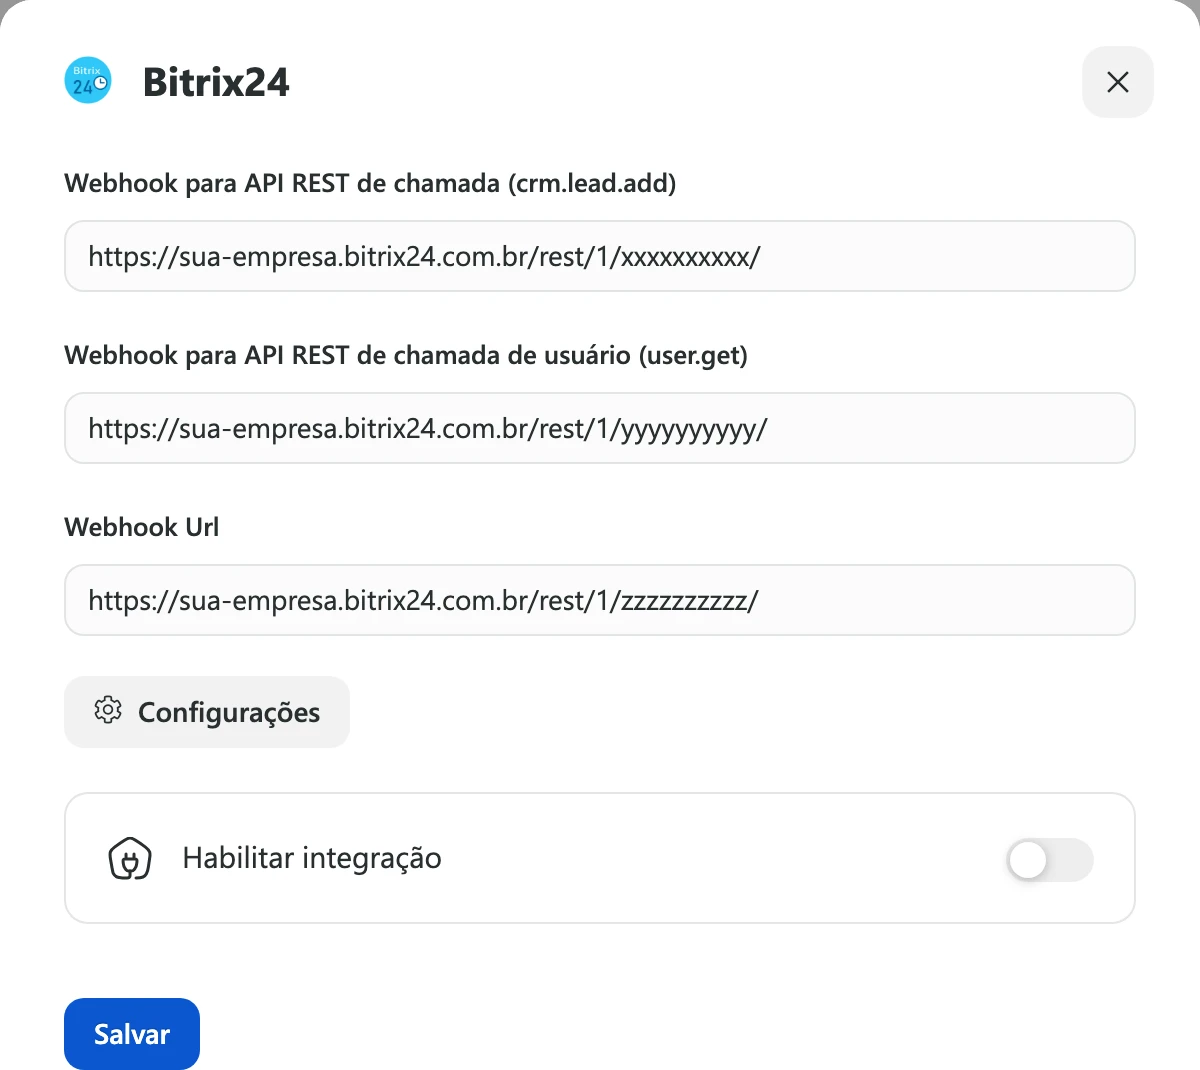
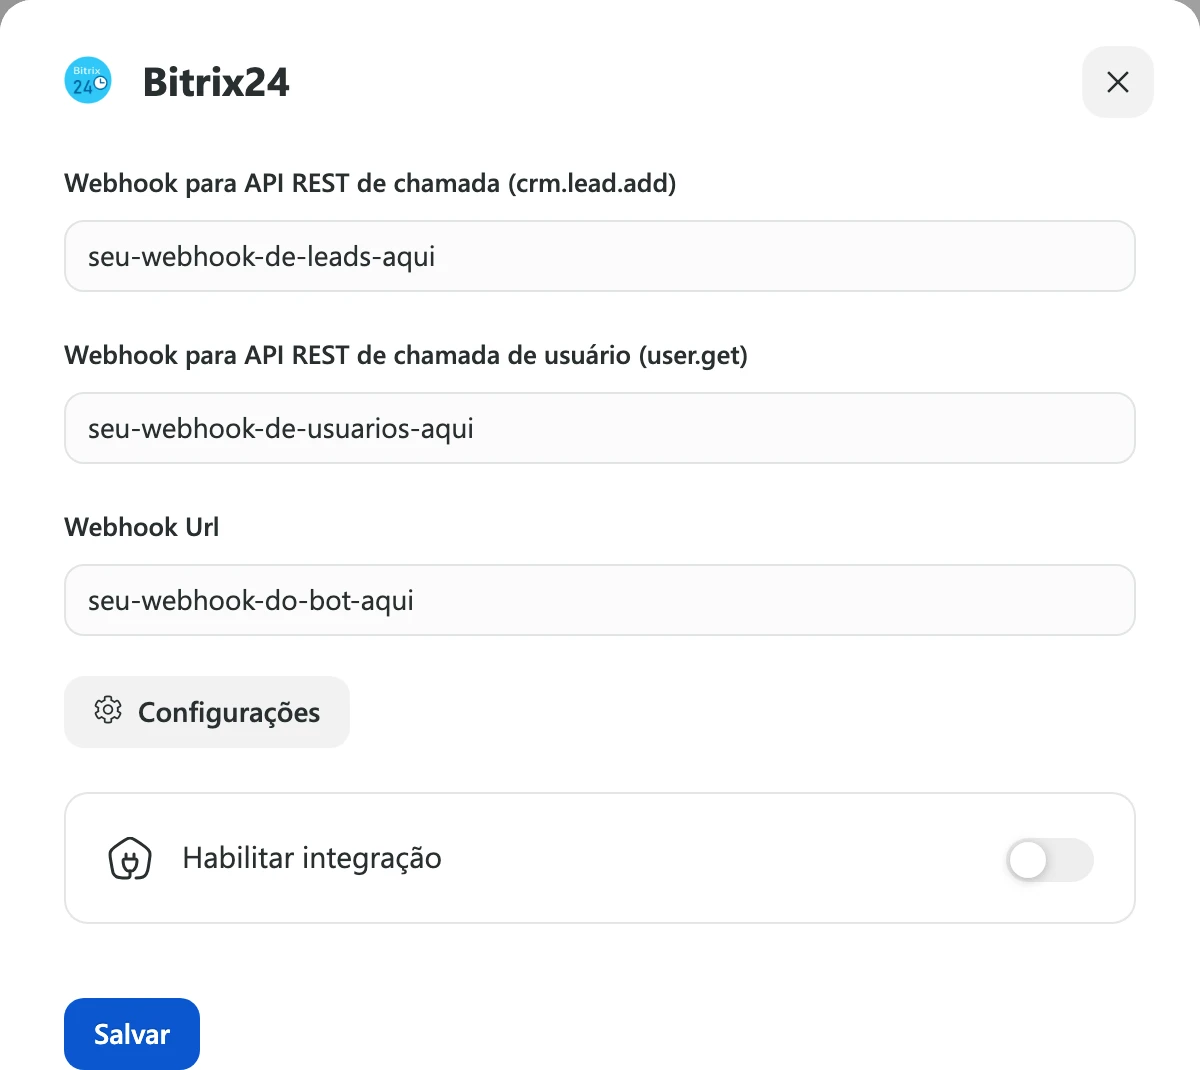
docs(integracoes): ajustes finais da rodada 2 do conselho
Print do Bitrix24 com marcadores no lugar de endereços; frontmatter sem
os arquivos citados pelo conselho; RD Station Marketing com o painel
fechando ao salvar antes de conectar; HubSpot com as condições de
modo, itens de linha e tokens conferidas; Pipedrive, Bitrix24, RD
Station CRM, Zoho, NectarCRM e bloco do bot ajustados; golden com o
webhook do RD.

Origem: web:src/components-old/forms/FormModal/index.tsx,
web:src/components-old/chat/side/integrationApps/HubspotApp/**,
api-v0:server/services/** (HubSpotGeneralService, PipedriveService)

Changed region(s): [[0.0617, 0.3701, 0.6475, 0.4318], [0.0617, 0.5551, 0.6475, 0.586], [0.0617, 0.2159, 0.6475, 0.2467]]

diff --git a/llm/integracoes/hubspot.md b/llm/integracoes/hubspot.md
@@ -63,14 +63,14 @@ Complemento técnico de [Integrar com o HubSpot](/docs/integracoes/hubspot).
 - **Tokens reservas:**
   - **No bot, nas automações e nas ações de fluxo de trabalho:** quando há tokens cadastrados em **Tokens reservas**, cada chamada sorteia **apenas entre os tokens reservas** e deixa de usar o **Token** principal.
   - **No quadro da conversa:** usa sempre o **Token** principal (os tokens reservas não são usados no quadro).
-  - **Um token por campo:** coloque um único token em **Token** e em cada linha de **Tokens reservas**. Vários tokens separados por vírgula no campo **Token** só funcionam no quadro; no bot, nas automações e nos fluxos de trabalho o campo é usado inteiro e as chamadas falham.
+  - **Um token por campo:** coloque um único token em **Token** e em cada linha de **Tokens reservas**. Vários tokens separados por vírgula no campo **Token** só funcionam no quadro. Sem **Tokens reservas**, o bot, as automações e os fluxos de trabalho usam o campo inteiro e as chamadas falham; com **Tokens reservas**, eles sorteiam entre as reservas.
 - **Cache de propriedades nos ajustes:** a lista de campos do HubSpot carregada em **Ajustes do Hubspot** fica em cache até recarregar a página do navegador. Propriedades recém-criadas no HubSpot só aparecem após recarregar o navegador.
 
 ## Ações no bot
 
 Disponíveis no bloco **Integração**, grupo **Outros** (veja [Chamar um sistema externo no bot](/docs/bot/integracoes-do-bot); puladas na simulação):
 
-- **Consulta contato no HubSpot:** tem a opção **Não sobrescrever nome do contato no Hubspot**. Procura pelo ID já guardado ou por e-mail/telefone (até 3 tentativas). Se não existir, cria com status de lead `"NEW"`, nome dividido em nome e sobrenome e, como responsável, o usuário do HubSpot com o mesmo e-mail do membro atribuído; se existir, atualiza. Envia os campos do **Mapa de campos**, envia telefones brasileiros com `+55` (celulares com o nono dígito; telefones fixos sem ele) e grava mensagem de sistema na conversa (`"Contato criado no Hubspot"`, `"Contato atualizado no Hubspot"` ou `"Erro ao criar contato no Hubspot -> …"`). Sem e-mail e sem telefone, não faz nada.
+- **Consulta contato no HubSpot:** tem a opção **Não sobrescrever nome do contato no Hubspot**. Procura pelo ID já guardado ou por e-mail/telefone (até 3 tentativas). Se não existir, cria com status de lead `"NEW"`, nome dividido em nome e sobrenome e, como responsável, o usuário do HubSpot com o mesmo e-mail do membro atribuído; se existir, atualiza. Envia os campos do **Mapa de campos**, por padrão, envia telefones brasileiros com `+55` (celulares com o nono dígito; telefones fixos sem ele) e grava mensagem de sistema na conversa (`"Contato criado no Hubspot"`, `"Contato atualizado no Hubspot"` ou `"Erro ao criar contato no Hubspot -> …"`). Sem e-mail e sem telefone, não faz nada.
 - **Consulta negócio no HubSpot:** pede **Funil de vendas** e **Etapa do funil**. Consulta negócios abertos do contato; se não encontrar, cria um novo negócio na etapa escolhida; se encontrar, não faz nada.
 - **Atualiza negócio no HubSpot:** pede **Funil de vendas** e **Etapa do funil** para atualizar o negócio.
 - **Cria ou atualiza Objeto no HubSpot:** pede **Objeto**, **Campo customizado do ID do objeto** e **Mapa de campos** (oferece **Nome**, **E-mail**, **Data criação da sessão**, **Data fim da sessão**, **Atendente da sessão** e campos personalizados).
@@ -87,12 +87,12 @@ Na ação **Integração** das automações:
 
 - **Negócios exibidos:** o quadro mostra todos os negócios associados ao contato (abertos e fechados).
 - **Erros da API do HubSpot:** aparecem como aviso com prefixo `"Hubspot"` seguido da mensagem original do HubSpot em inglês.
-- **Contato já existente ao criar:** se o contato já existir no HubSpot (por exemplo, mesmo e-mail), o HubSpot recusa a criação, o aviso aparece e o quadro não vincula o contato automaticamente. Use **Trocar contato vinculado** (no modo **Celular**) para ligar ao contato existente.
-- **Itens de linha ao editar negócio:** nos itens já salvos, **Preço** e **Quantidade** ficam desativados. Para trocar um item, exclua-o e adicione outro: excluir pede "Tem certeza que deseja excluir esse item de linha? Não poderá desfazer.", vale na hora e avisa "Item de linha excluído.".
+- **Contato já existente ao criar:** se o contato já existir no HubSpot (por exemplo, mesmo e-mail), o HubSpot recusa a criação. No modo **Celular**, o quadro não vincula o contato automaticamente: use **Trocar contato vinculado** para ligar ao contato existente. No modo **Id do contato do Hubspot**, o quadro grava o ID do contato já existente no **Campo de sincronização**.
+- **Itens de linha ao editar negócio:** nos itens já salvos, **Produto**, **Preço** e **Quantidade** ficam desativados. Para trocar um item, exclua-o e adicione outro: excluir pede "Tem certeza que deseja excluir esse item de linha? Não poderá desfazer.", vale na hora e avisa "Item de linha excluído.".
 - **Limites de listagem:** funis e produtos listam até 99 itens; propriedades de objeto no bot listam até 999 itens; a lista de **Responsável** traz todos os usuários do HubSpot.
 - **Ver no Hubspot:** só abre o negócio certo ao editar um negócio já salvo; na criação, o link ainda não aponta para um negócio.
 - **Cartão do negócio:** ao passar o mouse sobre um negócio da lista, aparece o cartão **Negócio** com **Status** (**Ganho**, **Perdido** ou **Aberto**), **Responsável**, **Valor**, **Funil**, **Etapa** e **Criado há**.
-- **Criar Contato desativado:** o botão fica desativado com a dica "Contato não possui número de telefone" quando o contato não tem telefone. A janela **Adicionar Contato** envia junto o telefone e o e-mail do contato.
+- **Criar Contato desativado:** nos modos **Celular** e **Campo personalizado**, o botão fica desativado com a dica "Contato não possui número de telefone" quando o contato não tem telefone. No modo **Id do contato do Hubspot**, o botão fica liberado mesmo sem telefone. A janela **Adicionar Contato** envia junto o telefone e o e-mail do contato.
 - **Trocar contato vinculado:** busca contatos do HubSpot por nome, e-mail ou telefone (até 20 resultados), marca o atual como **Vinculado** e grava a escolha com **Vincular** no contato da Kinbox. Só aparece no modo **Celular**.
 - **Responsável sugerido:** ao criar um negócio, **Responsável** vem preenchido com o usuário do HubSpot que tem o mesmo e-mail do membro logado. O quadro recarrega cerca de 5 segundos depois de salvar.
 - **Obrigatoriedade:** as regras configuradas em **Obrigatoriedade** valem apenas no formulário de negócio do quadro da conversa (não no HubSpot nem no bot).

diff --git a/llm/integracoes/rdstation-marketing.md b/llm/integracoes/rdstation-marketing.md
@@ -35,8 +35,7 @@ Complemento técnico de [Integrar com o RD Station Marketing](/docs/integracoes/
 
 - **E-mail como chave:** o quadro busca o contato no RD exclusivamente pelo e-mail do contato na Kinbox. Alterar o e-mail do contato na Kinbox faz o quadro buscar o novo e-mail no RD. **Atualizar contato** envia nome, celular, bio e tags, e não altera o e-mail no RD.
 - **Mensagens de erro do quadro:** ao criar um contato, um erro de e-mail mostra o texto devolvido pelo RD; outros erros aparecem como `"Erro ao criar contato - "` seguido do detalhe do RD. **Atualizar contato** com erro mostra `"Erro ao atualizar contato"`.
-- **País:** no quadro, o campo **País** hoje repete o valor de **Estado**.
-- **Campos exibidos no quadro (somente leitura):** mostra apenas campos preenchidos no RD — **Contato**, **Cargo**, **Telefone pessoal**, **Celular**, **Bio**, **Website**, **Cidade**, **Estado**, **Twitter**, **Facebook**, **Linkedin**, **Tags** e campos personalizados do RD (os de prefixo `cf_`, exibidos sem o prefixo).
+- **Campos exibidos no quadro (somente leitura):** mostra apenas campos preenchidos no RD — **Contato**, **Cargo**, **Telefone pessoal**, **Celular**, **Bio**, **Website**, **Cidade**, **Estado**, **País** (repete o valor de **Estado**), **Twitter**, **Facebook**, **Linkedin**, **Tags** e campos personalizados do RD (os de prefixo `cf_`, exibidos sem o prefixo).
 - **Criar contato como conversão:** gravado apenas ao clicar em **Salvar** no painel. Quando ligado, registra uma conversão no RD após criar ou atualizar o contato com os seguintes identificadores:
   - **No quadro da conversa:** `chat_kinbox`.
   - **Na ação do bot:** `"Contato criado via Kinbox"` ou `"Contato atualizado via Kinbox"`.

diff --git a/llm/integracoes/pipedrive.md b/llm/integracoes/pipedrive.md
@@ -43,7 +43,7 @@ Complemento técnico de [Integrar com o Pipedrive](/docs/integracoes/pipedrive).
 Disponíveis no bloco **Integração**, grupo **Outros** (veja [Chamar um sistema externo no bot](/docs/bot/integracoes-do-bot); puladas na simulação):
 
 - **Ações listadas:** `Sincroniza contato, lead, deal, activity e notas no Pipedrive`, `Cria ou atualiza a deal no Pipedrive` e `Cria ou atualiza atividade de agenda no Pipedrive`. A gaveta do bloco não exibe campos próprios de configuração.
-- **Qual token o bot usa (diferente do quadro):** o bot procura primeiro o token de um membro ligado à conversa (o membro responsável, o membro definido na ação ou o responsável do contato no Pipedrive) e as configurações padrão da integração; só depois usa o primeiro token preenchido do painel. Sem nenhum token, registra erro como mensagem de sistema na conversa.
+- **Qual token o bot usa (diferente do quadro):** o bot pode usar outro token configurado no painel, não necessariamente o do membro que está atendendo. Sem nenhum token, registra erro como mensagem de sistema na conversa.
 - **Vínculo separado do quadro:** o bot guarda uma ligação própria com a pessoa do Pipedrive e, quando não existe, busca a pessoa pelo telefone. Ele não lê o campo `pipedriveid` usado pelo quadro; por isso, um contato vinculado pelo quadro pode não ser encontrado pelo bot se o telefone não coincidir.
 
 ## Casos de borda

diff --git a/llm/integracoes/bitrix24.md b/llm/integracoes/bitrix24.md
@@ -41,8 +41,8 @@ Complemento técnico de [Integrar com o Bitrix24](/docs/integracoes/bitrix24).
 | **Webhook Url** | Ações prontas do Bitrix24 no bot (contatos, negócios, funis e usuários) e listas da gaveta do bot quando o primeiro campo está vazio. | Acesso ao CRM (contatos, negócios e funis) e a usuários. |
 
 - **Preenchimento parcial:**
-  - Só **Webhook Url** preenchido: o bot funciona, mas o botão **Add lead** do quadro na conversa fica desativado.
-  - Só o primeiro webhook preenchido: o quadro funciona, mas as ações prontas do bot não executam nada.
+  - Só **Webhook Url** preenchido: o bot funciona; o painel só salva com **Habilitar integração** desligado, então o quadro não aparece nas conversas.
+  - Só o primeiro webhook preenchido: o quadro funciona se **Habilitar integração** estiver ligado, mas as ações prontas do bot não executam nada.
 
 ## Regras do quadro da conversa
 

diff --git a/llm/integracoes/rdstation-crm.md b/llm/integracoes/rdstation-crm.md
@@ -13,7 +13,6 @@ codigo:
   - web:src/pages/settings/integrations/EditRdStation.tsx
   - web:src/pages/settings/integrations/rdstation/**
   - web:src/components-old/chat/side/integrationApps/RDStationApp/**
-  - api:src/modules/proxy/**
 verificado_em: 2026-11-26
 ---
 

diff --git a/llm/integracoes/nectarcrm.md b/llm/integracoes/nectarcrm.md
@@ -10,7 +10,6 @@ fontes:
 codigo:
   - web:src/pages/settings/integrations/EditNectarCRM.tsx
   - web:src/components-old/chat/side/integrationApps/NectarCRMApp/**
-  - api:src/modules/proxy/**
 verificado_em: 2026-11-26
 ---
 

diff --git a/llm/integracoes/zoho.md b/llm/integracoes/zoho.md
@@ -13,7 +13,6 @@ fontes:
 codigo:
   - web:src/pages/settings/integrations/zoho/**
   - web:src/components-old/chat/side/integrationApps/ZohoApp/**
-  - web:src/hooks/useSocketV2.ts
 verificado_em: 2026-11-26
 ---
 
